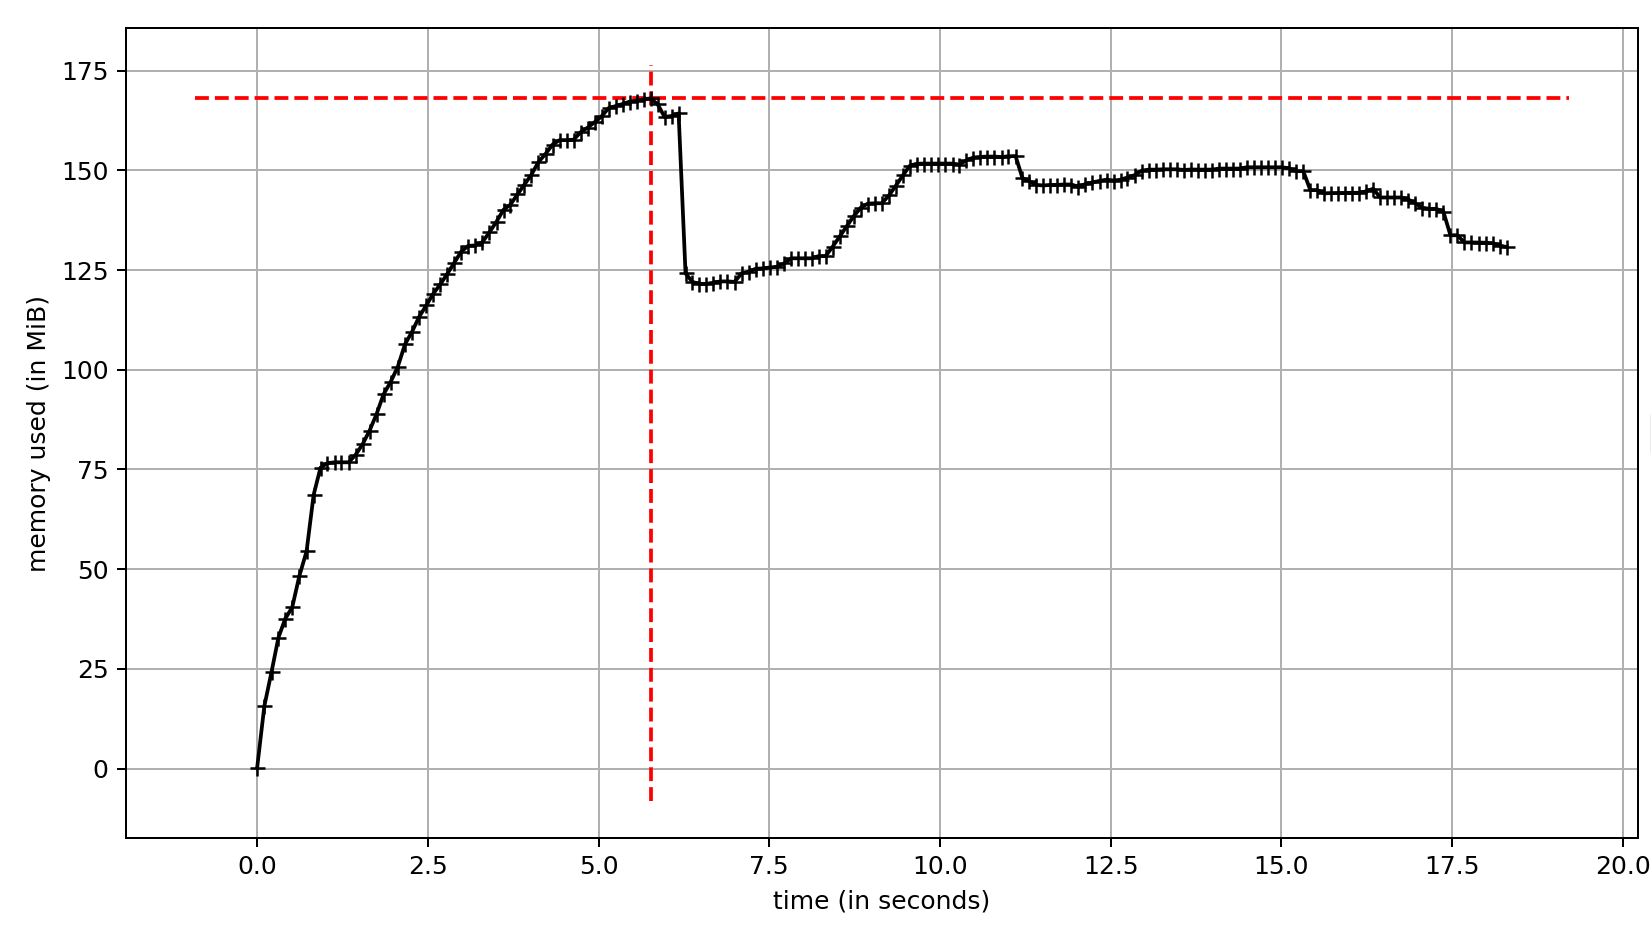
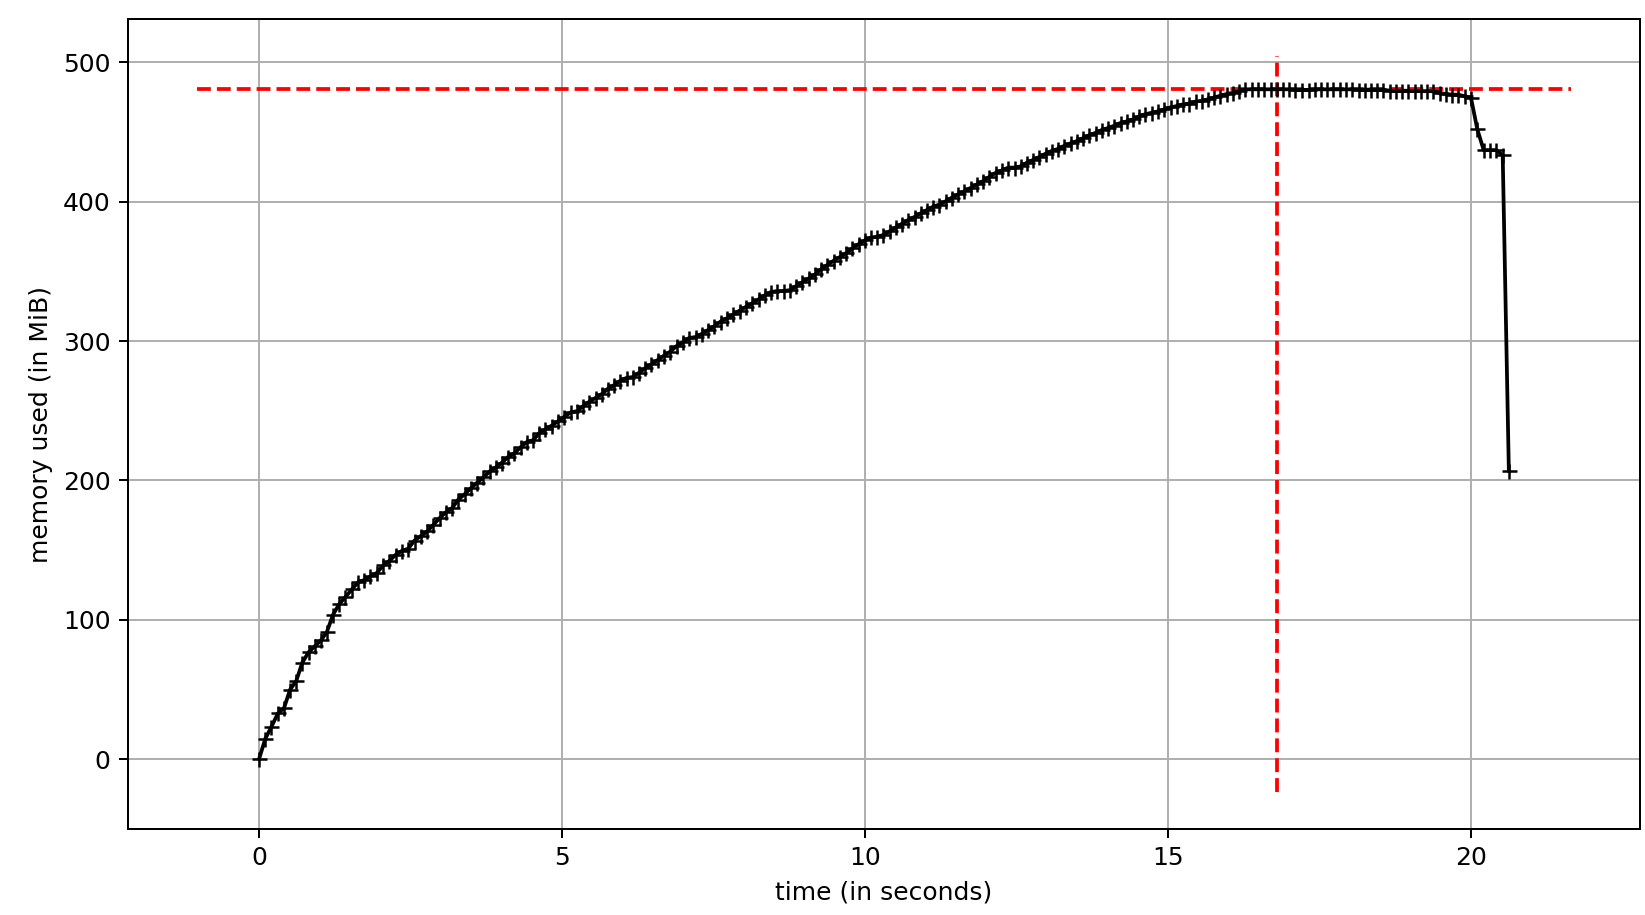
Thread: Do not use default number of threads

diff --git a/student_agency_thread.py b/student_agency_thread.py
@@ -30,7 +30,7 @@ def scrape_multiple_dates(departure, arrival, dates):
     """Scrape prices for a specifc route and multiple dates."""
     # Init ThreadPool without a limit for a thread. Number of threads can be limited by
     # `max_workers`.
-    with ThreadPoolExecutor() as executor:
+    with ThreadPoolExecutor(max_workers=100) as executor:
         [executor.submit(scrape_route, departure, arrival, date) for date in dates]
 
 
